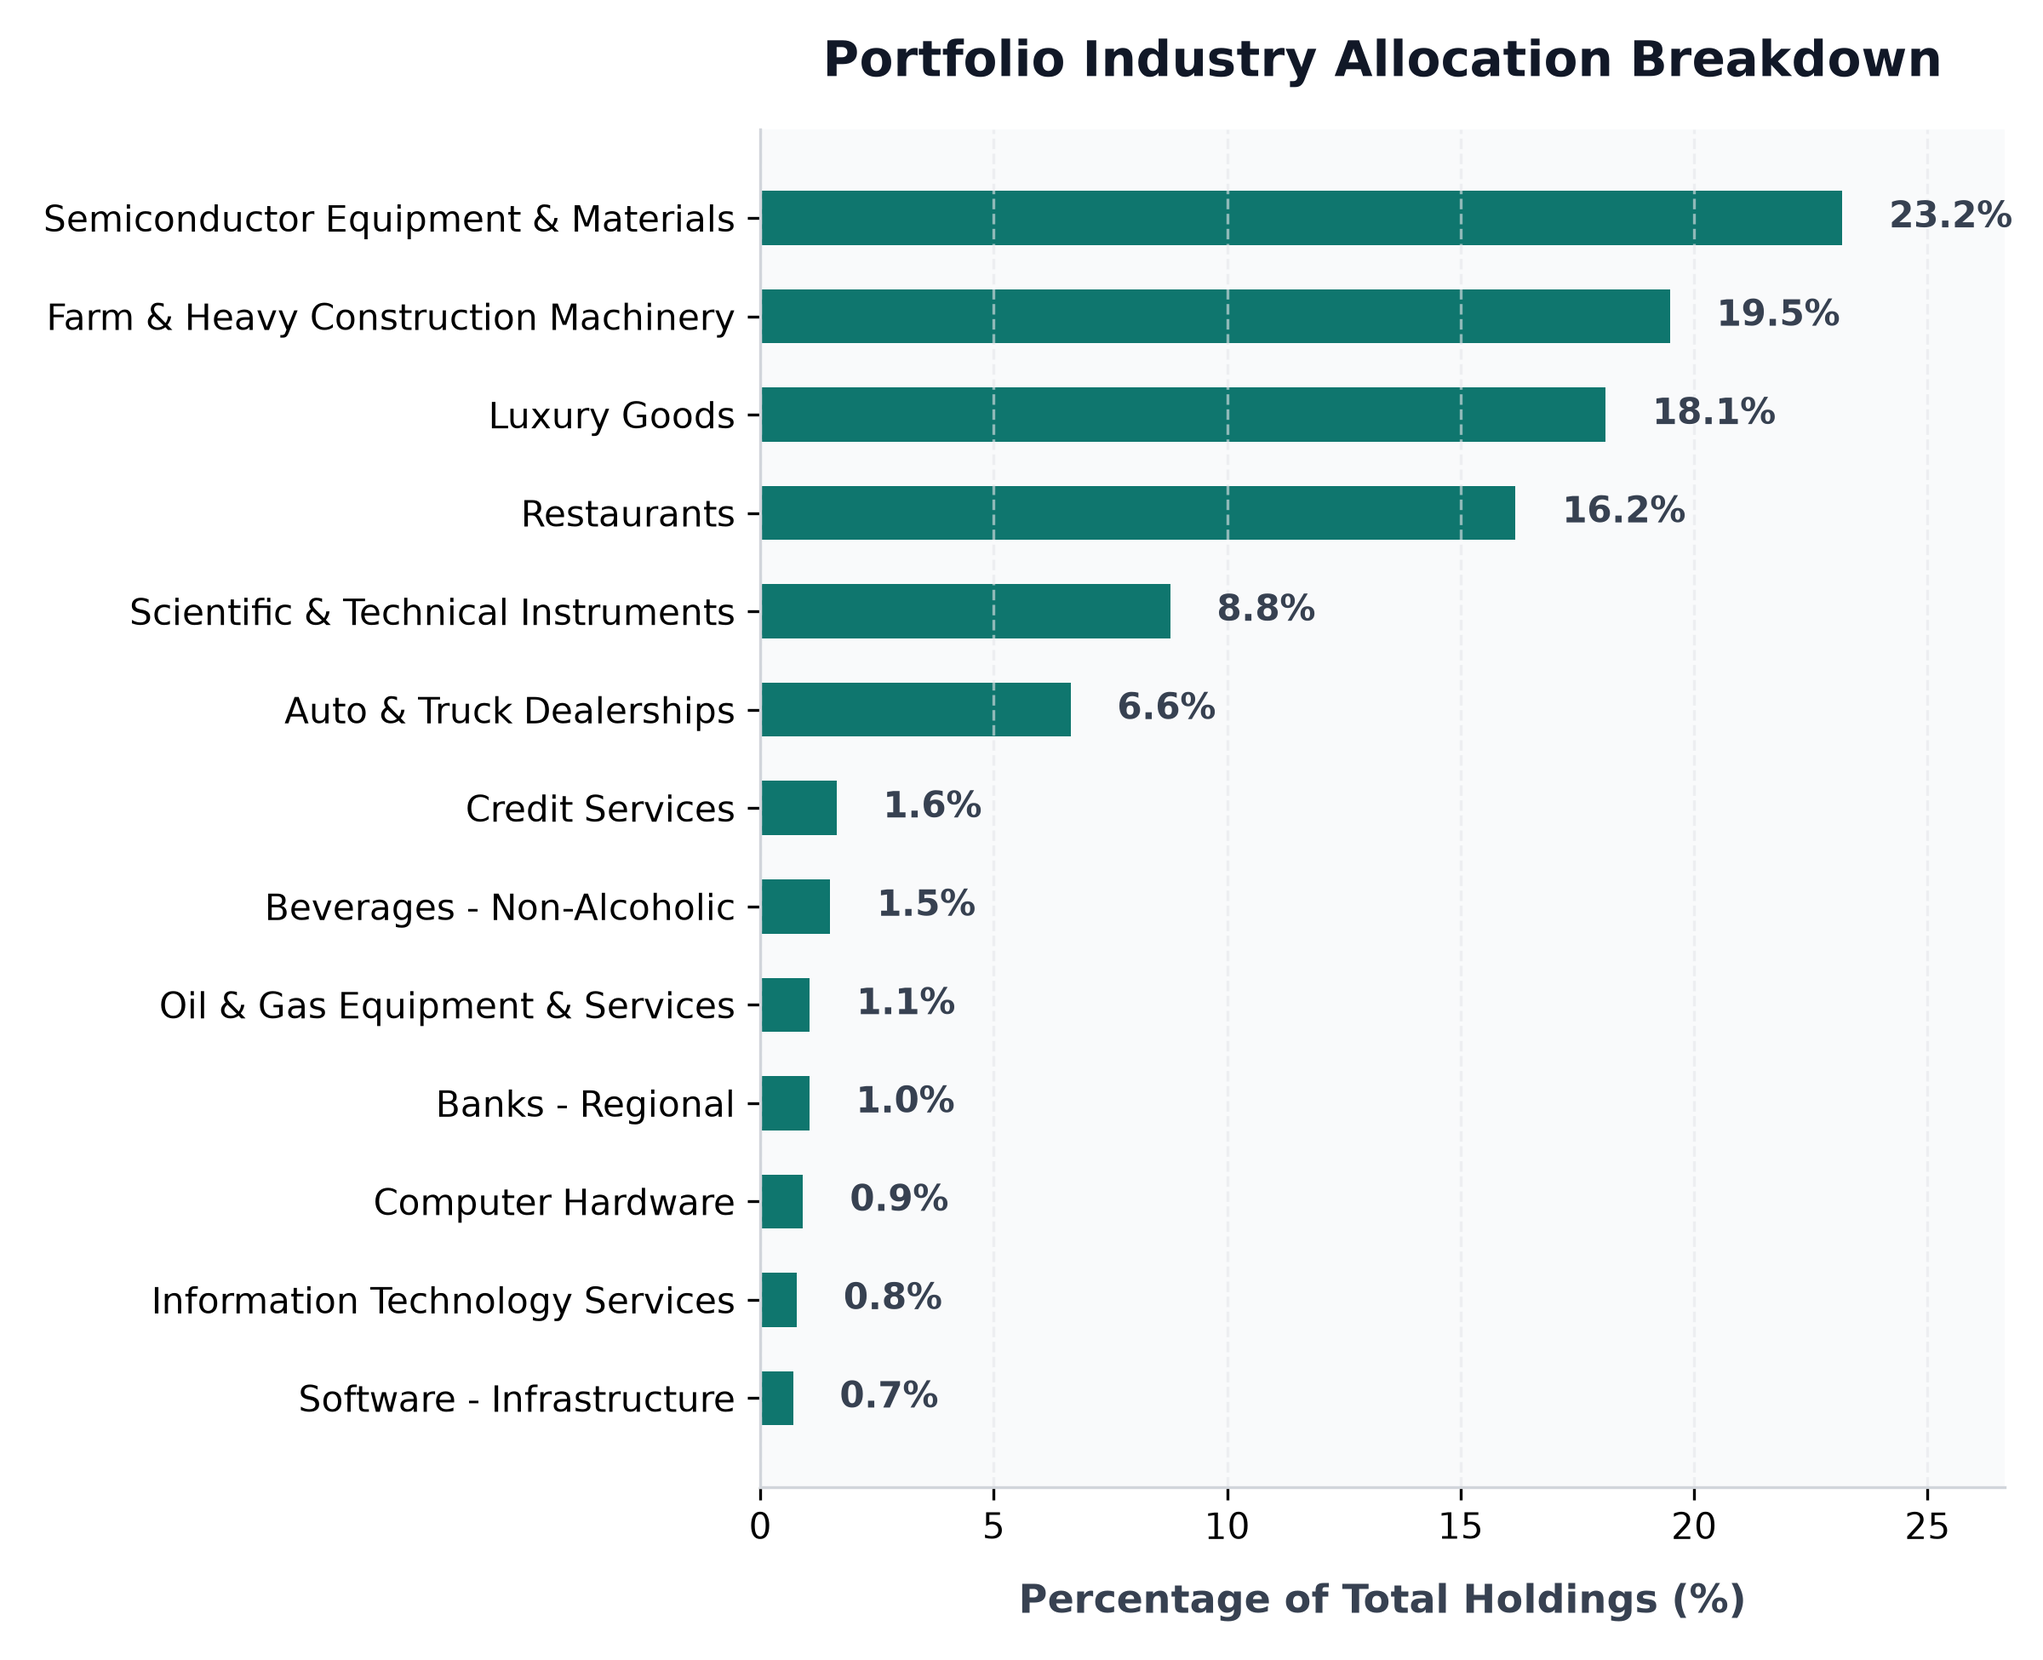
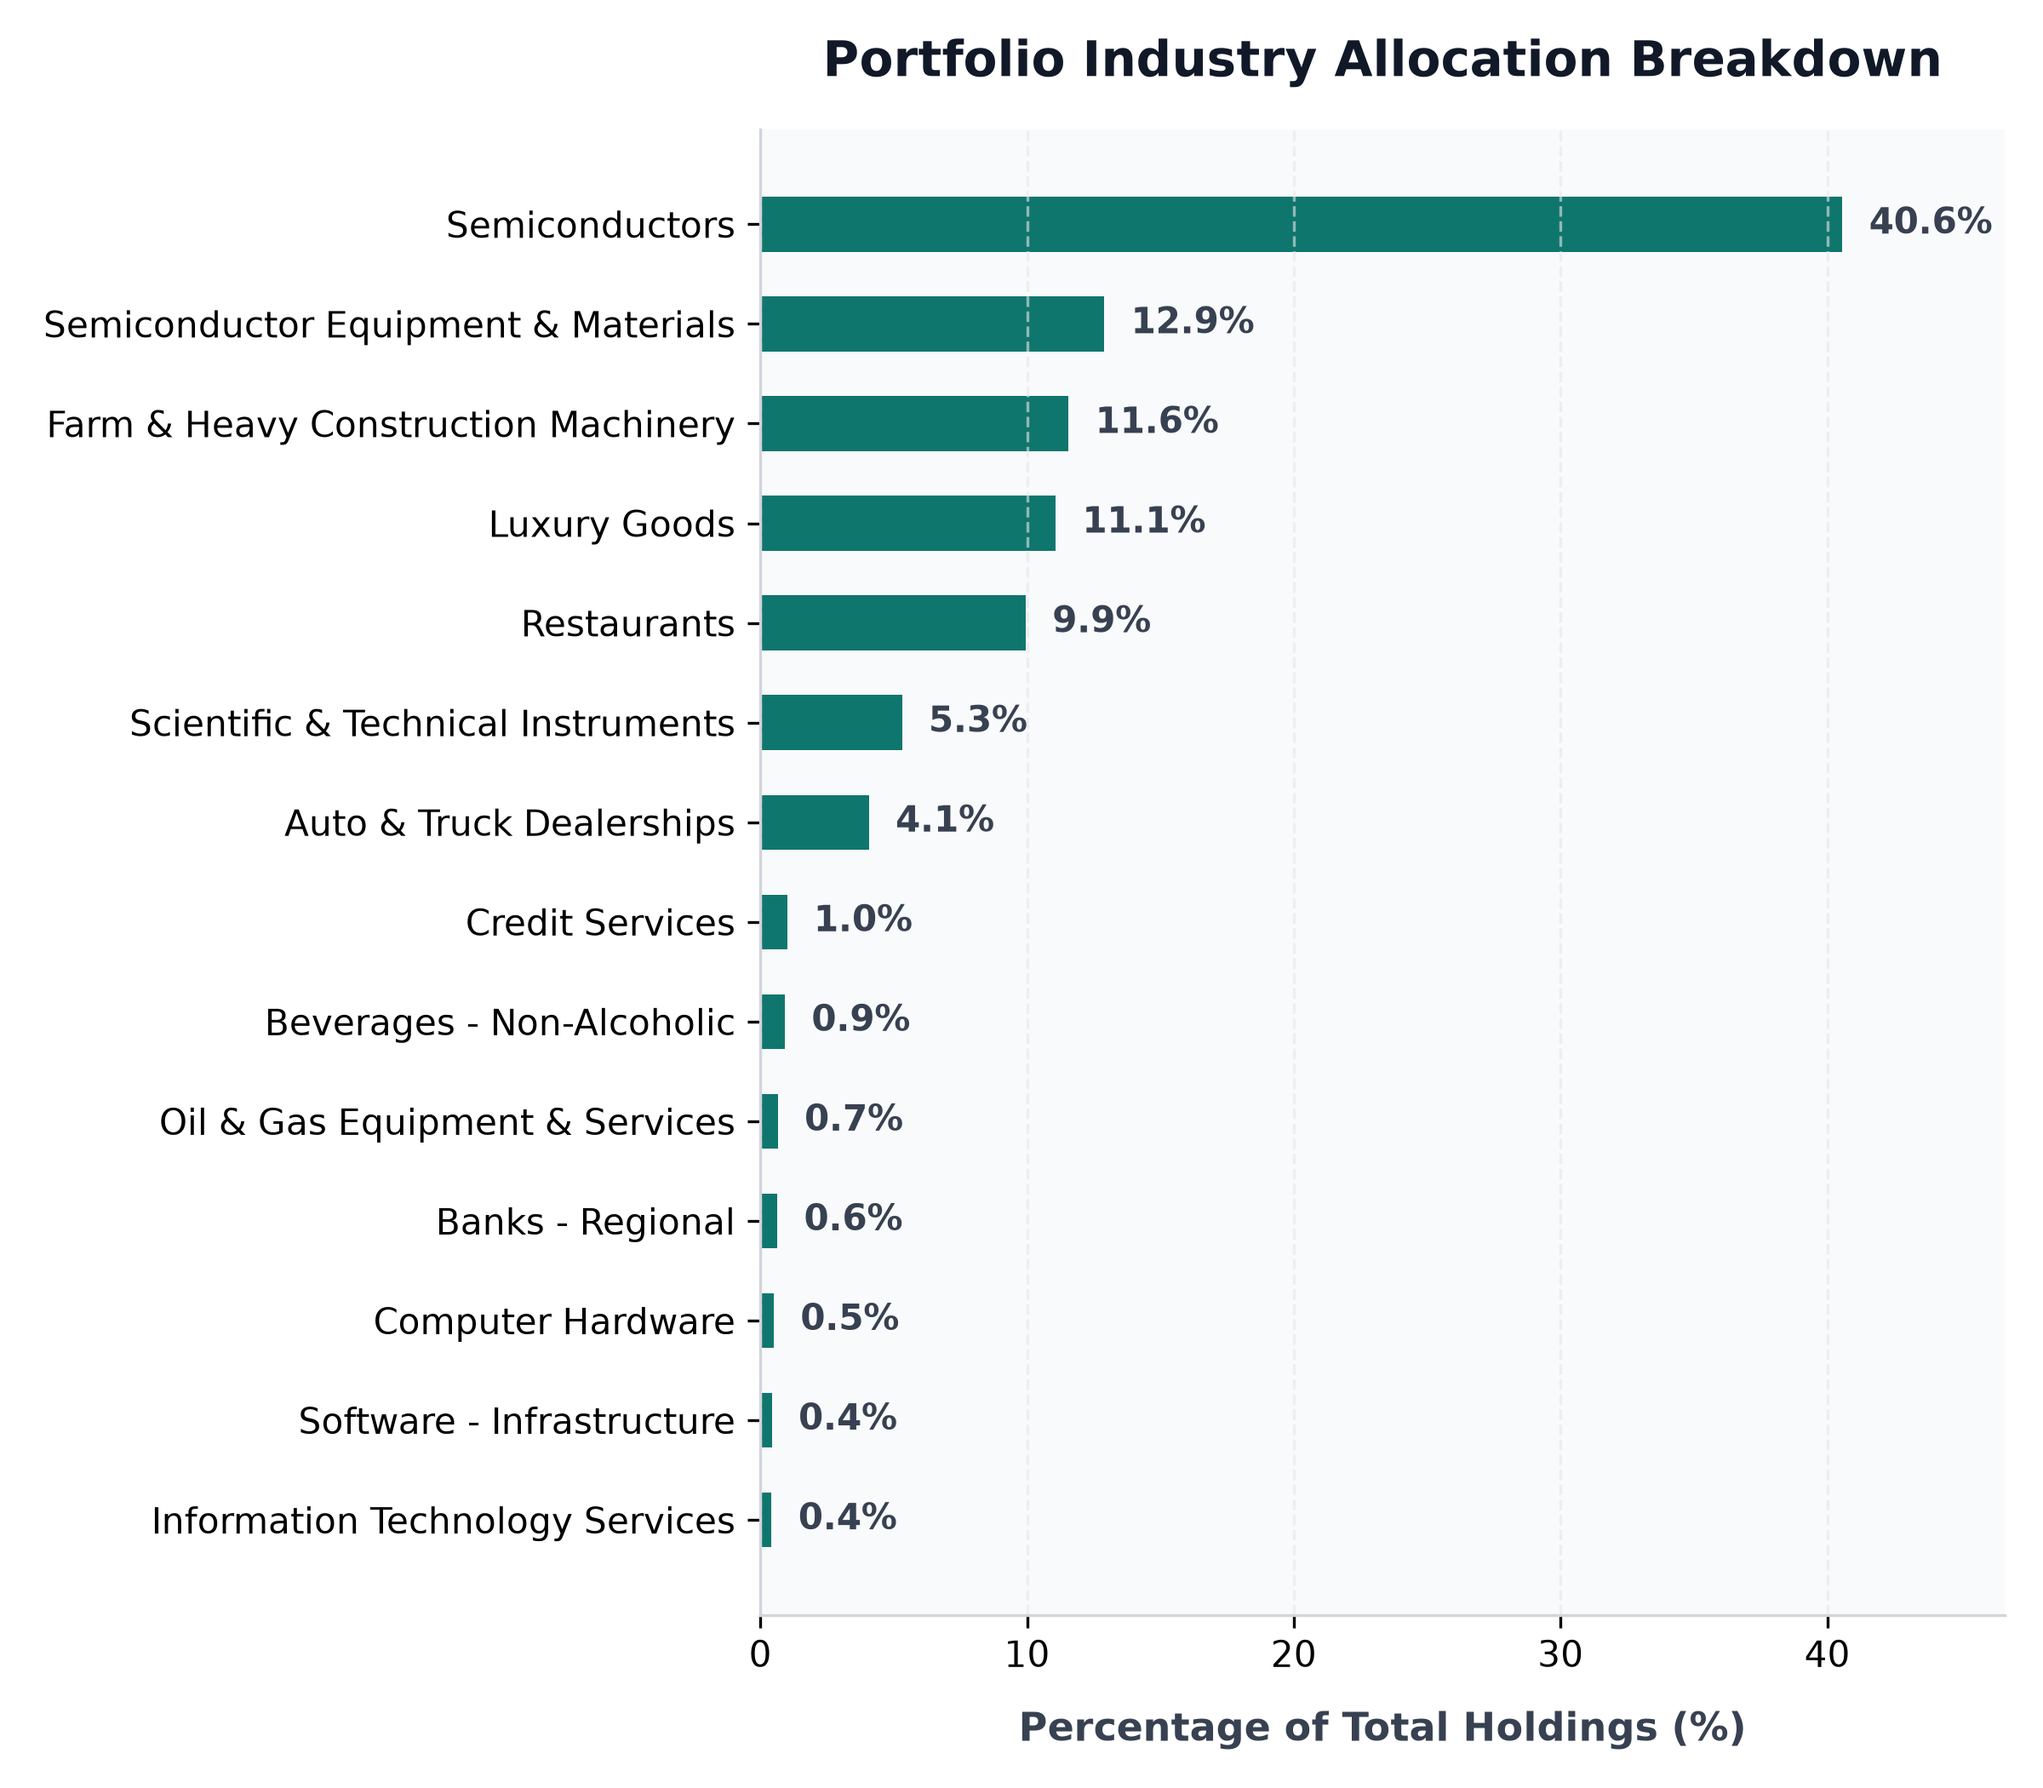
auto: daily portfolio status update - 2026-11-25 00:00:15

diff --git a/src/content/posts/portfolio-performance.md b/src/content/posts/portfolio-performance.md
@@ -1,6 +1,6 @@
 ---
 title: "BadOmen Algorithmic Portfolio Performance & PnL Report"
-pubDatetime: 2026-11-24T06:05:13.303528+08:00
+pubDatetime: 2026-11-25T00:00:15.012126+08:00
 description: "Live performance metrics, active holdings, and historic equity curve for the BadOmen automated paper trading portfolio."
 featured: true
 draft: false
@@ -16,11 +16,11 @@ Welcome to the live performance dashboard for **BadOmen**, our automated algorit
 ## 📊 Portfolio Summary
 | Performance Metric | Value | description |
 | :--- | :--- | :--- |
-| **Net Portfolio Equity** | **$98,346.81** | Total current liquidation value of cash and stock holdings |
-| **Total Unrealized P&L** | 🟢 **+$494.45** (+0.51%) | Total return of current open holdings |
-| **Cash Balance** | $84,793.79 | Idle reserve currency available for limit orders |
-| **Buying Power** | $361,295.02 | Margin-backed buying power for entry allocations |
-| **Report Updated** | `2026-11-24 06:05:13 (SGT)` | Timestamp of daily execution and sync run |
+| **Net Portfolio Equity** | **$97,717.58** | Total current liquidation value of cash and stock holdings |
+| **Total Unrealized P&L** | 🔴 **$-134.61** (-0.14%) | Total return of current open holdings |
+| **Cash Balance** | $75,380.06 | Idle reserve currency available for limit orders |
+| **Buying Power** | $354,563.38 | Margin-backed buying power for entry allocations |
+| **Report Updated** | `2026-11-25 00:00:15 (SGT)` | Timestamp of daily execution and sync run |
 
 ## 📈 Net Equity Growth Curve
 The chart below illustrates the historical performance of the account starting from our baseline capital funding of $100,000.00.
@@ -35,19 +35,20 @@ The chart below illustrates the exposure of our currently held active positions 
 ## 💼 Current Position Holdings
 | Ticker | Industry | Shares Owned | Average Entry Cost | Current Price | Unrealized P&L | Return (%) |
 | :--- | :--- | :--- | :--- | :--- | :--- | :--- |
-| **AN** | Auto & Truck Dealerships | 5 | $188.51 | $180.03 | 🔴 $-42.39 | -4.50% |
-| **BLBD** | Farm & Heavy Construction Machinery | 46 | $61.73 | $57.39 | 🔴 $-199.64 | -7.03% |
-| **CELH** | Beverages - Non-Alcoholic | 7 | $29.71 | $29.00 | 🔴 $-4.99 | -2.40% |
-| **CPRI** | Luxury Goods | 138 | $13.78 | $17.78 | 🟢 +$552.00 | +29.03% |
-| **GDS** | Information Technology Services | 7 | $32.77 | $15.12 | 🔴 $-123.55 | -53.86% |
-| **ITRI** | Scientific & Technical Instruments | 12 | $81.80 | $99.11 | 🟢 +$207.72 | +21.16% |
-| **LRCX** | Semiconductor Equipment & Materials | 15 | $204.66 | $209.37 | 🟢 +$70.56 | +2.30% |
-| **NESR** | Oil & Gas Equipment & Services | 8 | $28.74 | $18.00 | 🔴 $-85.92 | -37.37% |
-| **NU** | Banks - Regional | 12 | $11.60 | $11.85 | 🟢 +$3.02 | +2.17% |
-| **PATH** | Software - Infrastructure | 8 | $10.25 | $11.85 | 🟢 +$12.80 | +15.61% |
-| **PYPL** | Credit Services | 4 | $56.05 | $55.22 | 🔴 $-3.32 | -1.48% |
-| **SMCI** | Computer Hardware | 5 | $29.25 | $24.86 | 🔴 $-21.95 | -15.01% |
-| **WEN** | Restaurants | 257 | $8.02 | $8.53 | 🟢 +$130.11 | +6.31% |
+| **AN** | Auto & Truck Dealerships | 5 | $188.51 | $181.83 | 🔴 $-33.39 | -3.54% |
+| **BLBD** | Farm & Heavy Construction Machinery | 46 | $61.73 | $56.13 | 🔴 $-257.60 | -9.07% |
+| **CELH** | Beverages - Non-Alcoholic | 7 | $29.71 | $29.37 | 🔴 $-2.40 | -1.15% |
+| **CPRI** | Luxury Goods | 138 | $13.78 | $17.92 | 🟢 +$571.32 | +30.04% |
+| **GDS** | Information Technology Services | 7 | $32.77 | $13.54 | 🔴 $-134.61 | -58.68% |
+| **ITRI** | Scientific & Technical Instruments | 12 | $81.80 | $98.84 | 🟢 +$204.54 | +20.84% |
+| **LRCX** | Semiconductor Equipment & Materials | 15 | $204.67 | $192.04 | 🔴 $-189.38 | -6.17% |
+| **MRVL** | Semiconductors | 70 | $134.48 | $129.44 | 🔴 $-352.86 | -3.75% |
+| **NESR** | Oil & Gas Equipment & Services | 8 | $28.74 | $18.28 | 🔴 $-83.68 | -36.39% |
+| **NU** | Banks - Regional | 12 | $11.60 | $11.86 | 🟢 +$3.08 | +2.21% |
+| **PATH** | Software - Infrastructure | 8 | $10.25 | $12.04 | 🟢 +$14.28 | +17.41% |
+| **PYPL** | Credit Services | 4 | $56.05 | $56.05 | 🟢 +$0.00 | +0.00% |
+| **SMCI** | Computer Hardware | 5 | $29.25 | $22.54 | 🔴 $-33.58 | -22.96% |
+| **WEN** | Restaurants | 257 | $8.02 | $8.64 | 🟢 +$159.67 | +7.74% |
 
 ## 🔴 Recent Realized Trades
 | Ticker | Shares Sold | Entry Price | Exit Price | Strategy Trigger | Realized Return | Exit Date |
